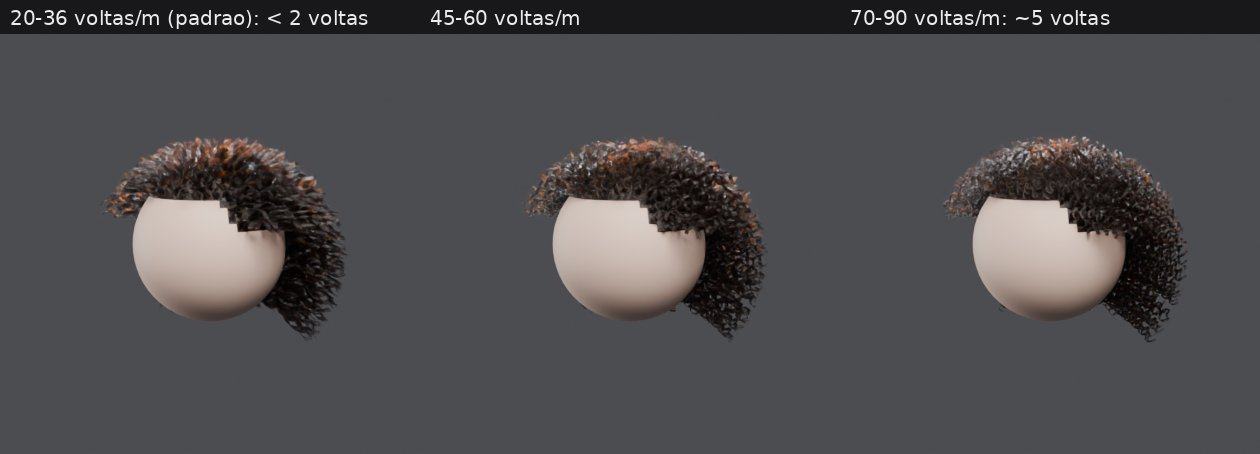
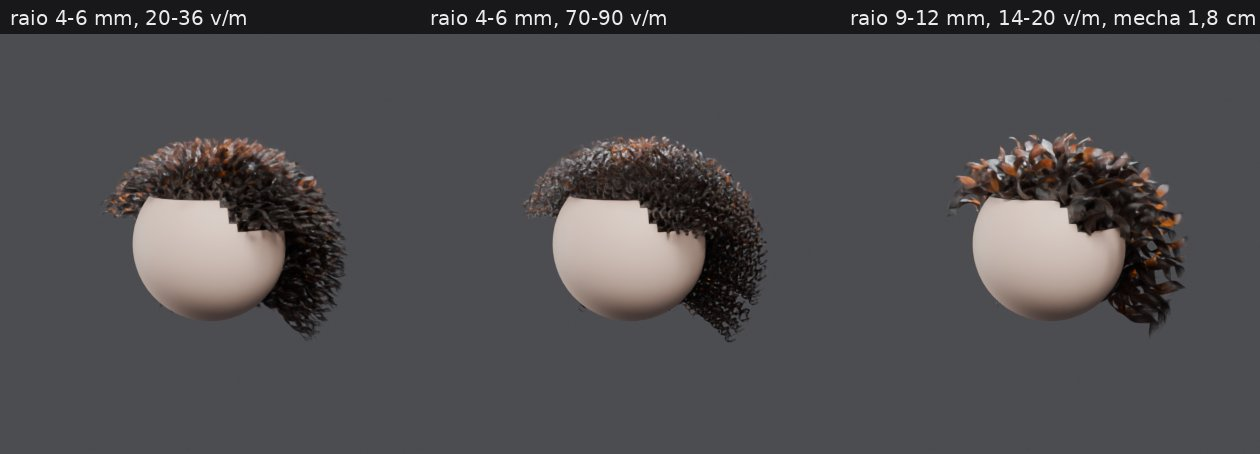
Laboratorio: cachinho de desenho em cabelo curto confirmado
Claude-Session: https://claude.ai/code/session_01X2WLpJ3ZerMyfhQCw5D11G

diff --git a/Estudos Extras Curriculares/Blender Hair Geometry Nodes/laboratorio/scripts/r96_curtocacho.py b/Estudos Extras Curriculares/Blender Hair Geometry Nodes/laboratorio/scripts/r96_curtocacho.py
@@ -16,9 +16,9 @@ def grp(name, **kw):
     return t.chain(n, n.inputs[0].name, n.outputs[0].name)
 grp("GR Guias Procedurais", **{"Cabeça (colisão)": head, "Comprimento": 0.07, "Para fora": 0.8, "Para o lado da risca": 0.2, "Para trás": 0.2, "Gravidade": 0.3})
 grp("GR Densidade Livre", **{"Viewport": 1.0, "Fios por m2": 450000.0})
-grp("GR Mecha Estilizada", **{"Tamanho da mecha": 0.01})
-vpm = {"baixo": (20.0, 36.0), "medio": (45.0, 60.0), "alto": (70.0, 90.0)}[V]
-grp("GR Cacho por Mecha", **{"Voltas por metro mín": vpm[0], "Voltas por metro máx": vpm[1], "Raio mín": 0.004, "Raio máx": 0.006, "Começa em": 0.1})
+grp("GR Mecha Estilizada", **{"Tamanho da mecha": (0.018 if V=="raio" else 0.01)})
+vpm = {"baixo": (20.0, 36.0), "medio": (45.0, 60.0), "alto": (70.0, 90.0), "raio": (14.0, 20.0)}[V]
+grp("GR Cacho por Mecha", **{"Voltas por metro mín": vpm[0], "Voltas por metro máx": vpm[1], "Raio mín": (0.009 if V=="raio" else 0.004), "Raio máx": (0.012 if V=="raio" else 0.006), "Começa em": 0.1})
 grp("GR Cor por Mecha")
 profile(t, EG, radius=0.0005); set_mat(t, hair_mat("h", melanin=0.95, redness=0.3)); apply_tree(g, t.finish())
 print("INFO", V, stats(g).get('curves'), stats(g).get('points'))

diff --git a/Estudos Extras Curriculares/_referencia/grooming/CEREBRO_GROOMING.md b/Estudos Extras Curriculares/_referencia/grooming/CEREBRO_GROOMING.md
@@ -2557,7 +2557,9 @@ Fio de 7 cm, hair cap real, 450 mil/m² (29 mil fios, 1,3 M pontos), mecha
 
 As três leram quase iguais. Em fio curto, o **raio do cacho em relação ao
 comprimento** manda: raio de 5 mm num fio de 7 cm já é 7% do comprimento,
-e qualquer número de voltas vira textura. Para cacho definido em cabelo
-curto (cachinho de desenho), aumente o raio relativo (~15% do
-comprimento, 1 cm aqui) e baixe as voltas; para textura crespa, o padrão
+e qualquer número de voltas vira textura. Para textura crespa, o padrão
 basta.
+
+**Medido**: raio 9 a 12 mm (~15% do comprimento), 14 a 20 voltas/m (~1
+volta) e mecha 1,8 cm → **cachinhos de desenho separados**, cada mecha um
+cacho. É o controle certo para cabelo curto cacheado estilizado.

diff --git a/Estudos Extras Curriculares/Blender Hair Geometry Nodes/laboratorio/scripts/NOTAS.md b/Estudos Extras Curriculares/Blender Hair Geometry Nodes/laboratorio/scripts/NOTAS.md
@@ -103,3 +103,4 @@
 - Undercut com hair cap real (nuca ate -7 cm): 22,6k fios, raspado completo. Scalp de teste era curto.
 - lab.make_head(nape=-0.7) = hair cap real (nuca). Padrao continua o antigo (reprodutibilidade).
 - Cacho curto (7 cm, raio 4-6mm): 20-36 / 45-60 / 70-90 voltas/m leram iguais (textura). Raio relativo manda.
+- Cacho curto confirmado: raio 9-12mm + 14-20 v/m + mecha 1,8cm = cachinhos de desenho separados.
